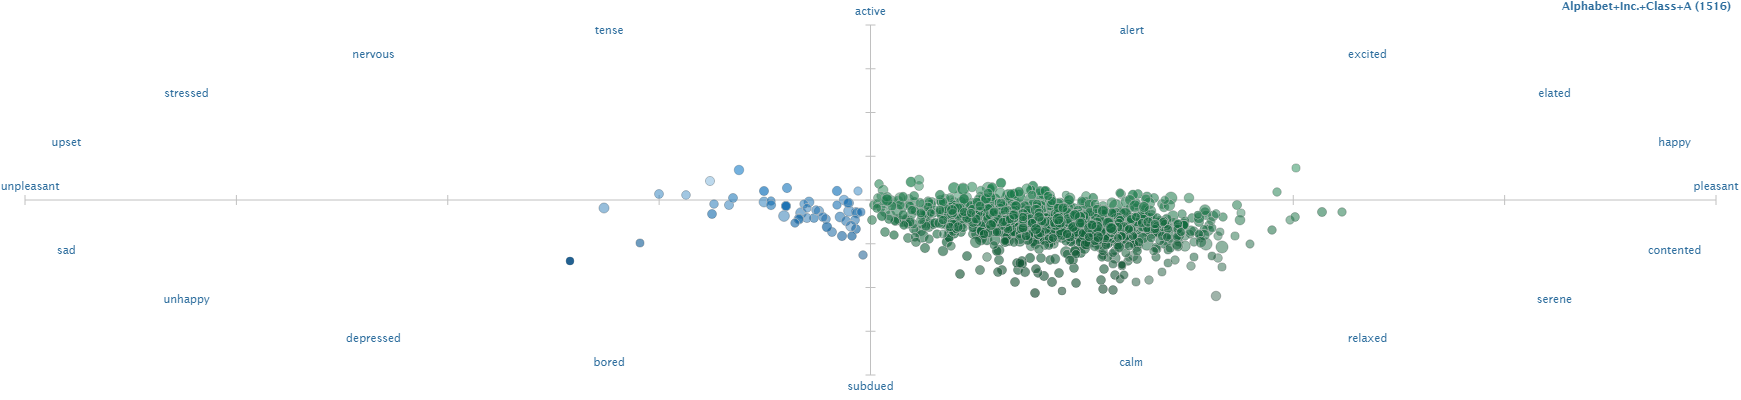
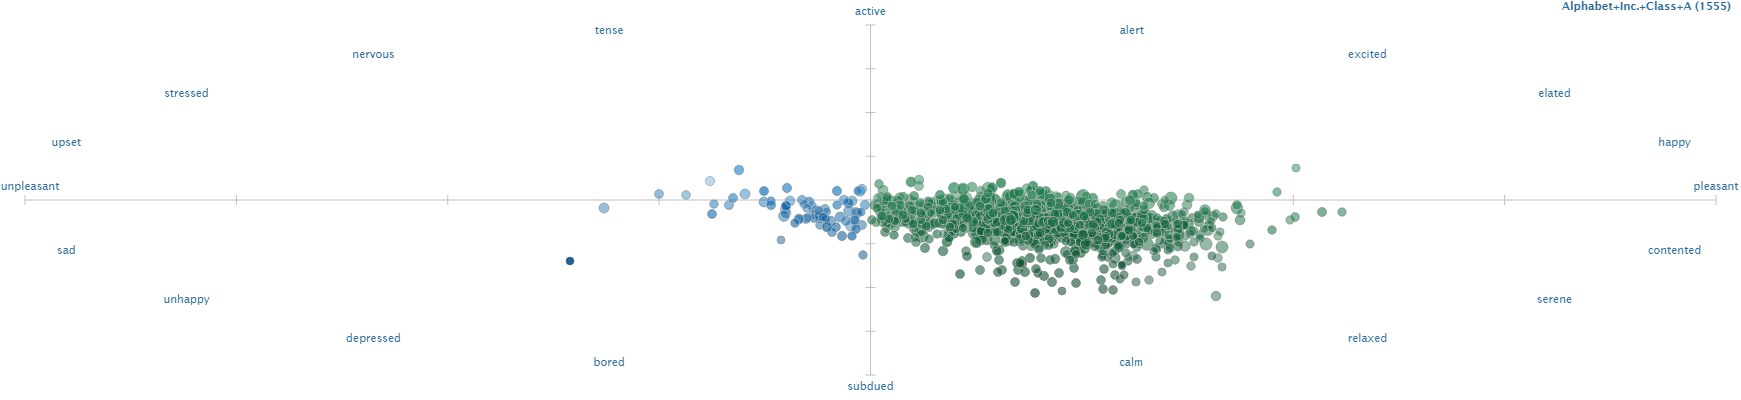
updated tabs.py file to make financials more readable. - uploaded more company imgs for sentiment analysis feature

Changed region(s): [[0.4032, 0.48, 0.7134, 0.63]]

diff --git a/components/tabs.py b/components/tabs.py
@@ -34,6 +34,19 @@ def render_overview(ticker):
     """
     st.markdown(overview_content)
 
+def format_large_number(num):
+    """Formats a number to 3 significant figures and adds a suffix (B, M, T)."""
+    if isinstance(num, (int, float)):
+        if abs(num) >= 1_000_000_000_000:  # Trillion
+            return f"{num / 1_000_000_000_000:.3g} T"
+        elif abs(num) >= 1_000_000_000:  # Billion
+            return f"{num / 1_000_000_000:.3g} B"
+        elif abs(num) >= 1_000_000:  # Million
+            return f"{num / 1_000_000:.3g} M"
+        else:  # Less than a million
+            return f"{num:,.2f}"
+    return num  # If num is 'N/A' or any other non-numeric value
+
 def render_financials(ticker):
     load_css()
     info = ticker.info
@@ -53,15 +66,20 @@ def render_financials(ticker):
     if profit_margin == 'N/A' and revenue != 'N/A' and earnings != 'N/A':
         profit_margin = earnings / revenue
 
+    # Format large numbers
+    revenue = format_large_number(revenue)
+    earnings = format_large_number(earnings)
+    market_cap = format_large_number(market_cap)
+
     financials_html = f"""
     <table class="financials-table">
         <tr>
             <th>Revenue</th>
-            <td>{revenue:,}</td>
+            <td>{revenue}</td>
         </tr>
         <tr>
             <th>Earnings</th>
-            <td>{earnings:,}</td>
+            <td>{earnings}</td>
         </tr>
         <tr>
             <th>EPS</th>
@@ -69,7 +87,7 @@ def render_financials(ticker):
         </tr>
         <tr>
             <th>PE Ratio</th>
-            <td>{pe_ratio}</td>
+            <td>{pe_ratio:.2f}</td>
         </tr>
         <tr>
             <th>Gross Margin</th>
@@ -81,11 +99,12 @@ def render_financials(ticker):
         </tr>
         <tr>
             <th>Market Cap</th>
-            <td>{market_cap:,}</td>
+            <td>{market_cap}</td>
         </tr>
     </table>
     """
     st.markdown(financials_html, unsafe_allow_html=True)
+
 
 def render_latest_news(ticker):
     load_css()
